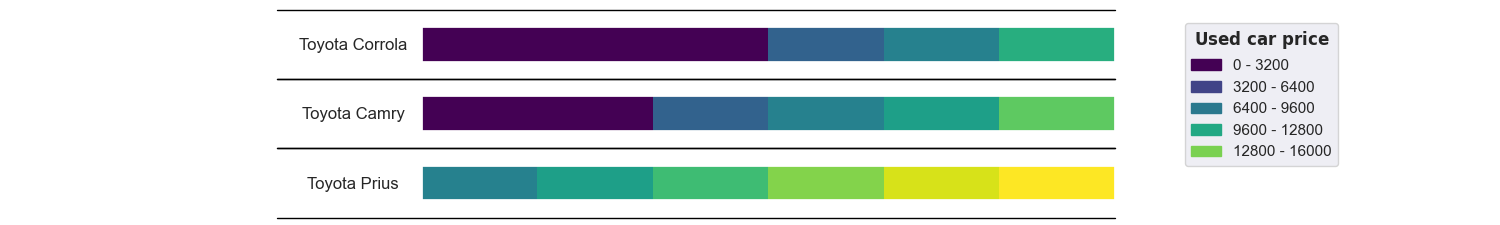
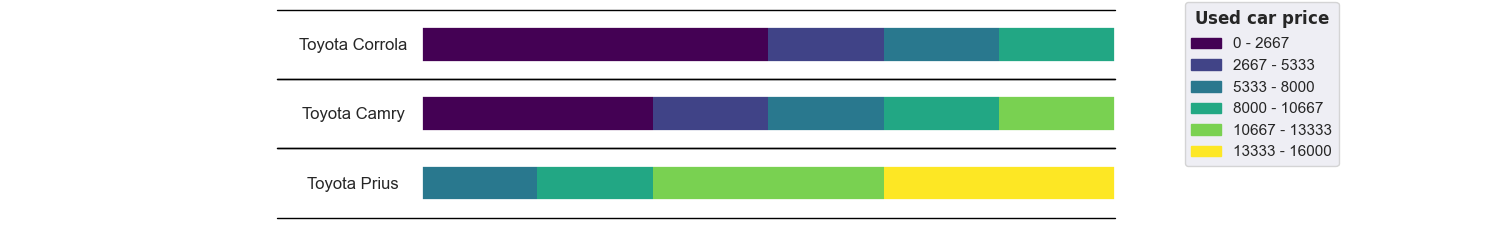
fixed cr_plot, refined dot_pair

diff --git a/consumer_reports_plot.py b/consumer_reports_plot.py
@@ -9,27 +9,45 @@ plt.rcParams["axes.grid"] = False
 '''
 Preferred aspect ration is 0.15
 Use larger width if more space is needed (text is constant dimensions, more or less)
+
+ '\' is needed in the title string for spaces in math mode!
 '''
+
+def bound_creation(data, column_labels):
+    bound = np.linspace(0, 1, len(column_labels) + 1)
+    bound_prep = np.round(bound * data.max())
+
+    return bound, bound_prep
+
+def get_colors(inp, colormap, vmin=None, vmax=None):
+    norm = plt.Normalize(vmin, vmax)
+    return colormap(norm(inp))
+
+def legend_data(cmap, bound, bound_prep, column_labels):
+    patches = [mpatches.Patch(color=cmap(b)) for b in bound[:-1]]
+    legend_labels = ['{} - {}'.format(int(bound_prep[i]), int(bound_prep[i+1])) for i in range(len(column_labels))]
+
+    return patches, legend_labels
+
 
 def cr_plot(data, row_labels, column_labels, output_path, default_val=0, width=15, colormap=None, graph_aspect=0.15, set_max=False, title=None):
     if len(row_labels) < 2:
-        raise ValueError('Number of subplots must be greater than 1, just make plot manually')
+        raise ValueError('Number of subplots must be greater than 1, plot manually')
 
     figw = width
     figh = figw * graph_aspect
 
     data = np.nan_to_num(data, nan=default_val) # comment out for gray spots on graph for NAN
     colormap = 'Wistia' if colormap is None else colormap # find out how to pass in colormap
+    bound, bound_prep = bound_creation(data, column_labels)
+    norm = plt.Normalize(vmin= data.min(), vmax= data.max())
     cmap = plt.cm.get_cmap(colormap, len(column_labels))
-    norm = matplotlib.colors.Normalize(vmin= data.min(), vmax= data.max()) # add option to use global max or row max
-    bound = np.linspace(0, 1, len(column_labels))
-    bound_prep = np.round(bound * data.max())
     gridspec_kw = {"height_ratios": [1] * len(row_labels), "width_ratios" : [1]}
-    fig, axes = plt.subplots(ncols=1, nrows=len(row_labels), figsize=(figw, figh), gridspec_kw=gridspec_kw, sharex=True)
+    fig, axes = plt.subplots(ncols=1, nrows=len(row_labels), figsize=(figw, figh), gridspec_kw=gridspec_kw, sharey=True, sharex=True)
 
     for i, ax in enumerate(axes):
         dat = np.asarray(data[i,:]).reshape(1, data.shape[1])
-        im = ax.imshow(dat, cmap=colormap, aspect=0.3, norm=norm)
+        im = ax.imshow(dat, cmap=cmap, aspect=0.3, norm=norm)
         # https://stackoverflow.com/a/26094524
         ax.plot([-0.21, 1], [-0.5, -0.5], color='black', lw=1, transform=ax.transAxes, clip_on=False)
         ax.plot([-0.21, 1], [1.5, 1.5], color='black', lw=1, transform=ax.transAxes, clip_on=False)
@@ -42,7 +60,7 @@ def cr_plot(data, row_labels, column_labels, output_path, default_val=0, width=1
     plt.subplots_adjust(hspace=1)
     plt.legend([mpatches.Patch(color=cmap(b)) for b in bound[:-1]],
            ['{} - {}'.format(int(bound_prep[i]), int(bound_prep[i+1])) for i in range(len(column_labels))],
-           loc= (1.1, 1), title=r"$\bf{" + title + "}$")
+           loc=(1.1, 1), title=r"$\bf{" + title + "}$")
     plt.savefig(output_path)
 
 def yaxis_coords(number_of_subplots):
@@ -56,6 +74,5 @@ if __name__ == "__main__":
     samps = np.array([[0, 0, 0, 5000, 7000, 10000],
                     [0, 0, 5000, 7000, 9000, 12000],
                     [7000, 9000, 11000, 13000, 15000, 16000]]
-                )
-    output_path = 'car_tester.png'
-    cr_plot(samps, cars, years, output_path, colormap= 'viridis',title='Used \ car \ price') # \ needed for spaces in math mode!
+            )
+    cr_plot(samps, cars, years, 'car_tester.png', colormap='viridis', title='Used \ car \ price')

diff --git a/pair_dot_plot.py b/pair_dot_plot.py
@@ -6,18 +6,14 @@ import os
 © 2018 Aaron Penne
 Taken from https://github.com/aaronpenne/data_visualization
 
-Adapted for general normalized quantity use.
+Assumes the data is already normalized.
 '''
 
 def make_output_dir(output_name):
     output_dir = os.path.realpath(output_name)
     if not os.path.isdir(output_dir):
         os.mkdir(output_dir)
-
-# a_compensation = 0
-# a_revenue = 1
-# ceo = 2
-# comapny = 3
+    return output_dir
 
 def make_new_df(df):
     col_list = df.columns.tolist()
@@ -25,7 +21,7 @@ def make_new_df(df):
     df2['original_index'] = None
     return df2
 
-def dot_pair_plot(df):
+def dot_pair_plot(df, title, first_label, second_label):
     df2 = make_new_df(df)
     fig, ax = plt.subplots(figsize=(8, 6), dpi=150)
     for i in df.index:
@@ -58,10 +54,8 @@ def dot_pair_plot(df):
                  markersize=7,
                  fillstyle='full')
 
-    # Plot revenue
     x = df.iloc[:, 0]
     y = df.index
-    # #C947F5
     plt.plot(x, y,
              color='#65C2A5',
              linestyle='None',
@@ -69,7 +63,6 @@ def dot_pair_plot(df):
              markersize=7,
              fillstyle='full')
 
-    # Plot company
     x = df.iloc[:, 1]
     y = df.index
     plt.plot(x, y,
@@ -87,22 +80,18 @@ def dot_pair_plot(df):
     plt.xticks(range(0,101,10), color='gray')
     ax.set_yticklabels('')
 
-    plt.text(-45, 12, 'Annual Company Revenue and Annual CEO Compensation',
+    plt.text(-45, 12, title,
              horizontalalignment='left',
              size=16,
              weight='bold')
-    plt.text(-45, 11, 'Company revenue is in $Billions.',
+    plt.text(-45, 11, first_label,
              horizontalalignment='left',
              color='#FC8D62',
              size=14)
-    plt.text(60, 11, 'CEO compensation is in $Millions.',
+    plt.text(60, 11, second_label,
              horizontalalignment='left',
              color='#65C2A5',
              size=14)
-    plt.text(-50, -3, 'Example text',
-             horizontalalignment='left',
-             color='gray',
-             size=8)
 
     return fig
 
@@ -114,6 +103,10 @@ def save_figure(fig, output_dir, filename, pad_inches=0.3):
 
 if __name__ == '__main__':
     df = pd.read_csv('/home/rincon/Desktop/data.csv', header=None)
-    make_output_dir('/home/rincon/Desktop/data_dir')
-    fig = dot_pair_plot(df)
-    save_figure(fig, '/home/rincon/Desktop/data_dir', 'testerrr.png') # save_figure(fig, output_name, figname)
+    output_dir = make_output_dir('/home/rincon/Desktop/data_dir')
+    fig = dot_pair_plot(df,
+      'Annual Company Revenue and CEO Compensation',
+      'Company revenue in billions $',
+      'CEO pay in millions $'
+    )
+    save_figure(fig, output_dir, 'testerrr.png')
